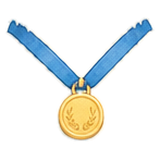
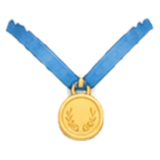
수영복·메달·수경·수모를 동시에 장착: 보드 그림에서 아이템 조각을 오려 겹쳐 입힘, 남/여 수영복 추가
- 정면 곰: 기본 곰 위에 수영복(남 숏사각/여 원피스)·메달·수모·수경 조각을 겹쳐 표시, 모두 동시 착용
- 하단 메뉴바 헤엄 곰: 입은 것과 가장 비슷한 보드 그림 선택 (수영복 보드에는 수모·수경 포함)
- 첫 도장(수영 준비물 사기)에서 남/여 수영복 지급, 아이템 아이콘도 보드 그림에서 오려냄
- 한 번에 한 가지만 입던 제한과 임시 이모지 제거

Claude-Session: https://claude.ai/code/session_01FoDKzQPxUVor71CCwyDNFk

diff --git a/src/components/bear/BearSprite.tsx b/src/components/bear/BearSprite.tsx
@@ -3,56 +3,100 @@ import { Animated, Easing, Image, Pressable, View } from 'react-native';
 import type { Equipped } from '../../storage/bear';
 
 // 둥실곰: 캐릭터 보드(assets/bear)의 그림을 그대로 쓴다. 덧그린 것은 없다.
-// - 입은 것에 따라 보드 그림이 통째로 바뀐다: 기본 / 수모 / 메달. 새 아이템 보드가 오면 여기에 한 줄씩 추가한다.
-// - 서 있는 모습(정면)과, 헤엄치는 모습(자유형·접영·평영·배영을 번갈아)을 쓴다.
+// - 서 있는 모습(정면): 기본 곰 위에, 입은 아이템(수영복·메달·수모·수경)을 보드 그림에서 오려낸 조각으로 겹쳐서 보여준다.
+//   조각은 모두 같은 크기의 캔버스라서 겹쳐 놓기만 하면 맞고, 여러 개를 동시에 입을 수 있다.
+// - 헤엄치는 모습(자유형·접영·평영·배영): 보드가 한 장씩이라, 입은 것과 가장 비슷한 보드 그림을 고른다.
 
 export type BearMode = 'idle' | 'swim';
 
-type Variant = 'base' | 'cap' | 'medal';
 type SwimPose = 'free' | 'fly' | 'breast' | 'back';
+type SwimVariant = 'base' | 'cap' | 'medal' | 'onepiece' | 'trunks';
 const SWIM_POSES: SwimPose[] = ['free', 'fly', 'breast', 'back'];
 
-// 포즈마다 모든 변형이 같은 크기의 캔버스에 놓여 있어서, 옷을 바꿔 입어도 곰 위치가 그대로다.
-const FRONT = { w: 262, h: 475 };
+const FRONT = { w: 290, h: 509 };
 const SWIM_SIZE: Record<SwimPose, { w: number; h: number }> = {
-  free: { w: 407, h: 204 },
-  fly: { w: 367, h: 191 },
-  breast: { w: 303, h: 200 },
-  back: { w: 392, h: 179 },
+  free: { w: 411, h: 220 },
+  fly: { w: 374, h: 207 },
+  breast: { w: 310, h: 205 },
+  back: { w: 392, h: 189 },
 };
-const SWIM_BOX = { w: 407, h: 204 };
+const SWIM_BOX = { w: 411, h: 220 };
 const SWIM_HOLD_MS = 4200;
 const SWIM_FADE_MS = 600;
 
-const FRONT_IMG: Record<Variant, number> = {
-  base: require('../../../assets/bear/base-front.png'),
-  cap: require('../../../assets/bear/cap-front.png'),
-  medal: require('../../../assets/bear/medal-front.png'),
+const FRONT_BASE = require('../../../assets/bear/front-base.png');
+const FRONT_LAYER = {
+  onepiece: require('../../../assets/bear/front-onepiece.png'),
+  trunks: require('../../../assets/bear/front-trunks.png'),
+  medal: require('../../../assets/bear/front-medal.png'),
+  cap: require('../../../assets/bear/front-cap.png'),
+  goggles: require('../../../assets/bear/front-goggles.png'),
 };
-const SWIM_IMG: Record<Variant, Record<SwimPose, number>> = {
+const SWIM_IMG: Record<SwimVariant, Record<SwimPose, number>> = {
   base: {
-    free: require('../../../assets/bear/base-free.png'),
-    fly: require('../../../assets/bear/base-fly.png'),
-    breast: require('../../../assets/bear/base-breast.png'),
-    back: require('../../../assets/bear/base-back.png'),
+    free: require('../../../assets/bear/swim-base-free.png'),
+    fly: require('../../../assets/bear/swim-base-fly.png'),
+    breast: require('../../../assets/bear/swim-base-breast.png'),
+    back: require('../../../assets/bear/swim-base-back.png'),
   },
   cap: {
-    free: require('../../../assets/bear/cap-free.png'),
-    fly: require('../../../assets/bear/cap-fly.png'),
-    breast: require('../../../assets/bear/cap-breast.png'),
-    back: require('../../../assets/bear/cap-back.png'),
+    free: require('../../../assets/bear/swim-cap-free.png'),
+    fly: require('../../../assets/bear/swim-cap-fly.png'),
+    breast: require('../../../assets/bear/swim-cap-breast.png'),
+    back: require('../../../assets/bear/swim-cap-back.png'),
   },
   medal: {
-    free: require('../../../assets/bear/medal-free.png'),
-    fly: require('../../../assets/bear/medal-fly.png'),
-    breast: require('../../../assets/bear/medal-breast.png'),
-    back: require('../../../assets/bear/medal-back.png'),
+    free: require('../../../assets/bear/swim-medal-free.png'),
+    fly: require('../../../assets/bear/swim-medal-fly.png'),
+    breast: require('../../../assets/bear/swim-medal-breast.png'),
+    back: require('../../../assets/bear/swim-medal-back.png'),
+  },
+  onepiece: {
+    free: require('../../../assets/bear/swim-onepiece-free.png'),
+    fly: require('../../../assets/bear/swim-onepiece-fly.png'),
+    breast: require('../../../assets/bear/swim-onepiece-breast.png'),
+    back: require('../../../assets/bear/swim-onepiece-back.png'),
+  },
+  trunks: {
+    free: require('../../../assets/bear/swim-trunks-free.png'),
+    fly: require('../../../assets/bear/swim-trunks-fly.png'),
+    breast: require('../../../assets/bear/swim-trunks-breast.png'),
+    back: require('../../../assets/bear/swim-trunks-back.png'),
   },
 };
+// 각 헤엄 보드 그림에 그려져 있는 것들. (수영복 보드에는 수모와 수경도 같이 그려져 있다.)
+const SWIM_SHOWS: Record<SwimVariant, string[]> = {
+  base: [],
+  cap: ['cap'],
+  medal: ['medal'],
+  onepiece: ['suit', 'cap', 'goggles'],
+  trunks: ['suit', 'cap', 'goggles'],
+};
 
-// 보드 그림이 있는 아이템만 보인다. 보드 한 장에 한 가지 아이템만 입고 있어서 한 번에 한 가지만 입는다.
-function variantOf(e: Equipped): Variant {
-  return e.cap ? 'cap' : e.medal ? 'medal' : 'base';
+/** 입은 것(수영복·수경·수모·메달)과 가장 비슷하게 그려진 헤엄 보드를 고른다. */
+function swimVariantOf(e: Equipped): SwimVariant {
+  const want = new Set<string>();
+  if (e.suit) want.add('suit');
+  if (e.goggles) want.add('goggles');
+  if (e.cap) want.add('cap');
+  if (e.medal) want.add('medal');
+  let best: SwimVariant = 'base';
+  let bestScore = -Infinity;
+  for (const v of Object.keys(SWIM_SHOWS) as SwimVariant[]) {
+    // 수영복은 입은 종류와 같은 보드를 우선한다.
+    if ((v === 'onepiece' || v === 'trunks') && e.suit && v !== e.suit) continue;
+    const shown = SWIM_SHOWS[v];
+    // 수영복이 가장 눈에 띄어서 비중을 크게 둔다.
+    const weight = (x: string) => (x === 'suit' ? 2 : 1);
+    const hit = shown.filter((x) => want.has(x)).reduce((n, x) => n + weight(x), 0);
+    const extra = shown.filter((x) => !want.has(x)).length;
+    const score = hit - extra * 0.5;
+    if (score > bestScore) {
+      bestScore = score;
+      best = v;
+    }
+  }
+  return best;
 }
 
 /** 곰이 차지하는 상자 크기. 헤엄치는 모습은 가로로 길다. */
@@ -79,7 +123,7 @@ interface Props {
 
 function SwimBear({ height, equipped, paused }: { height: number; equipped: Equipped; paused?: boolean }) {
   const box = bearBox('swim', height);
-  const v = variantOf(equipped);
+  const v = swimVariantOf(equipped);
   const set = SWIM_IMG[v];
   const fades = useRef(SWIM_POSES.map((_, i) => new Animated.Value(i === 0 ? 1 : 0))).current;
   const current = useRef(0);
@@ -193,7 +237,11 @@ function StandingBear({ height, equipped, interactive, paused, onPress }: Omit<P
   const body = (
     <View style={{ width: box.width, height: box.height }} pointerEvents="none">
       <Animated.View style={[stageStyle, { transform }]}>
-        <Image source={FRONT_IMG[variantOf(equipped)]} style={layer} />
+        <Image source={FRONT_BASE} style={layer} />
+        {equipped.suit ? <Image source={FRONT_LAYER[equipped.suit]} style={layer} /> : null}
+        {equipped.medal ? <Image source={FRONT_LAYER.medal} style={layer} /> : null}
+        {equipped.cap ? <Image source={FRONT_LAYER.cap} style={layer} /> : null}
+        {equipped.goggles ? <Image source={FRONT_LAYER.goggles} style={layer} /> : null}
       </Animated.View>
     </View>
   );

diff --git a/src/screens/BearCustomizeScreen.tsx b/src/screens/BearCustomizeScreen.tsx
@@ -4,7 +4,7 @@ import { LinearGradient } from 'expo-linear-gradient';
 import ScreenBackground from '../components/ScreenBackground';
 import BearSprite from '../components/bear/BearSprite';
 import { ITEMS, ItemId, LEVEL_NAMES } from '../data/missions';
-import { hasItemArt, ITEM_EMOJI, ITEM_IMAGES } from '../data/itemImages';
+import { ITEM_IMAGES } from '../data/itemImages';
 import { levelOf, setEquipped, useBearState } from '../storage/bear';
 import type { Equipped } from '../storage/bear';
 import { colors, fonts, radius, spacing } from '../theme';
@@ -43,7 +43,7 @@ export default function BearCustomizeScreen() {
       <ScrollView contentContainerStyle={styles.content}>
         <LinearGradient colors={['#8EDAF0', '#3FB1DE']} style={styles.stage}>
           <BearSprite mode="idle" height={280} equipped={bear.equipped} interactive />
-          <Text style={styles.stageHint}>곰을 눌러보세요! 한 번에 한 가지를 입어요</Text>
+          <Text style={styles.stageHint}>곰을 눌러보세요! 모두 함께 입을 수 있어요</Text>
         </LinearGradient>
 
         <Text style={styles.levelText}>
@@ -65,29 +65,24 @@ export default function BearCustomizeScreen() {
               <View style={styles.tiles}>
                 {slot.items.map((id) => {
                   const owned = bear.owned.includes(id);
-                  const art = hasItemArt(id);
                   const on = current === id;
                   return (
                     <Pressable
                       key={id}
-                      disabled={!owned || !art}
+                      disabled={!owned}
                       onPress={() => setEquipped(slot.patch(on ? null : id))}
                       style={[styles.tile, on && styles.tileOn, !owned && styles.tileLocked]}
                       accessibilityRole="button"
                       accessibilityLabel={`${ITEMS[id].name}${owned ? '' : ' (미션 보상)'}`}
                     >
                       <View style={styles.thumb}>
-                        {art ? (
-                          <Image source={ITEM_IMAGES[id]} style={[styles.thumbImg, !owned && { opacity: 0.25 }]} resizeMode="contain" />
-                        ) : (
-                          <Text style={[styles.emoji, !owned && { opacity: 0.25 }]}>{ITEM_EMOJI[id]}</Text>
-                        )}
+                        <Image source={ITEM_IMAGES[id]} style={[styles.thumbImg, !owned && { opacity: 0.25 }]} resizeMode="contain" />
                         {!owned && <Text style={styles.lock}>🔒</Text>}
                       </View>
                       <Text style={styles.tileName} numberOfLines={2}>
                         {ITEMS[id].name}
                       </Text>
-                      <Text style={[styles.tileState, on && styles.tileStateOn]}>{!owned ? '미션 보상' : !art ? '그림 준비 중' : on ? '입는 중' : '입기'}</Text>
+                      <Text style={[styles.tileState, on && styles.tileStateOn]}>{!owned ? '미션 보상' : on ? '입는 중' : '입기'}</Text>
                     </Pressable>
                   );
                 })}
@@ -115,7 +110,6 @@ const styles = StyleSheet.create({
   tileLocked: { opacity: 0.9 },
   thumb: { width: 84, height: 84, borderRadius: 42, backgroundColor: '#CFEBF6', alignItems: 'center', justifyContent: 'center' },
   thumbImg: { width: 64, height: 64 },
-  emoji: { fontSize: 38 },
   lock: { position: 'absolute', fontSize: 22 },
   tileName: { fontFamily: fonts.semibold, color: colors.text, fontSize: 12, marginTop: 6, textAlign: 'center' },
   tileState: { fontFamily: fonts.medium, color: colors.textMuted, fontSize: 11, marginTop: 2 },

diff --git a/src/components/MissionCard.tsx b/src/components/MissionCard.tsx
@@ -2,7 +2,7 @@ import React, { useEffect, useRef, useState } from 'react';
 import { Animated, Easing, Image, Modal, Pressable, ScrollView, StyleSheet, Text, TouchableOpacity, View } from 'react-native';
 import BearStamp from './BearStamp';
 import { BUY_GEAR_LIST, ETIQUETTE_LIST, ITEMS, LEVEL_NAMES, MissionDef, TIERS } from '../data/missions';
-import { hasItemArt, ITEM_EMOJI, ITEM_IMAGES } from '../data/itemImages';
+import { ITEM_IMAGES } from '../data/itemImages';
 import { completeMission, currentTier, levelOf, setEquipped, syncAutoMissions, useBearState } from '../storage/bear';
 import type { CompleteResult } from '../storage/bear';
 import { colors, fonts, radius, spacing } from '../theme';
@@ -182,11 +182,7 @@ export default function MissionCard({ recordCount, onAddRecord, onOpenCustomize 
                   {reward.gained.map((id) => (
                     <View key={id} style={styles.rewardItem}>
                       <View style={styles.rewardThumb}>
-                        {ITEM_IMAGES[id] != null ? (
-                          <Image source={ITEM_IMAGES[id]} style={styles.rewardImg} resizeMode="contain" />
-                        ) : (
-                          <Text style={styles.rewardEmoji}>{ITEM_EMOJI[id]}</Text>
-                        )}
+                        <Image source={ITEM_IMAGES[id]} style={styles.rewardImg} resizeMode="contain" />
                       </View>
                       <Text style={styles.rewardName}>{ITEMS[id].name}</Text>
                     </View>
@@ -196,18 +192,18 @@ export default function MissionCard({ recordCount, onAddRecord, onOpenCustomize 
                   <TouchableOpacity style={styles.secondaryBtn} onPress={() => setReward(null)}>
                     <Text style={styles.secondaryBtnText}>확인</Text>
                   </TouchableOpacity>
-                  {reward.gained.some(hasItemArt) && (
+                  {reward.gained.length > 0 && (
                     <TouchableOpacity
                       style={styles.primaryBtn}
                       onPress={async () => {
                         // 받은 아이템 중 바로 입을 수 있는 것을 입혀준다(수영복은 팬티가 기본).
                         const patch: Record<string, unknown> = {};
                         for (const id of reward.gained) {
-                          // 수영복·수경은 아직 그림이 없어서 입히지 않는다. 한 가지만 입을 수 있다.
-                          if (id === 'cap' || id === 'medal') {
-                            patch[id] = true;
-                            break;
-                          }
+                          if (id === 'trunks' && !patch.suit) patch.suit = 'trunks';
+                          else if (id === 'onepiece' && !patch.suit) patch.suit = 'onepiece';
+                          else if (id === 'goggles') patch.goggles = true;
+                          else if (id === 'cap') patch.cap = true;
+                          else if (id === 'medal') patch.medal = true;
                         }
                         await setEquipped(patch);
                         setReward(null);
@@ -361,6 +357,5 @@ const styles = StyleSheet.create({
   rewardItem: { alignItems: 'center', width: 96 },
   rewardThumb: { width: 84, height: 84, borderRadius: 42, backgroundColor: colors.cardSoft, alignItems: 'center', justifyContent: 'center' },
   rewardImg: { width: 64, height: 64 },
-  rewardEmoji: { fontSize: 40 },
   rewardName: { fontFamily: fonts.semibold, color: colors.text, fontSize: 12, marginTop: 6, textAlign: 'center' },
 });

diff --git a/src/data/itemImages.ts b/src/data/itemImages.ts
@@ -1,21 +1,10 @@
 import type { ItemId } from './missions';
 
-// 캐릭터 보드 그림이 있는 아이템만 곰 위에 보인다. 나머지(수영복·수경)는 보드가 오면 추가한다.
-export const ITEM_IMAGES: Partial<Record<ItemId, number>> = {
+// 아이템 아이콘: 캐릭터 보드 그림에서 아이템 부분만 오려낸 것.
+export const ITEM_IMAGES: Record<ItemId, number> = {
+  trunks: require('../../assets/items/trunks.png'),
+  onepiece: require('../../assets/items/onepiece.png'),
+  goggles: require('../../assets/items/goggles.png'),
   cap: require('../../assets/items/cap.png'),
   medal: require('../../assets/items/medal.png'),
 };
-
-/** 그림이 아직 없는 아이템의 임시 아이콘. */
-export const ITEM_EMOJI: Record<ItemId, string> = {
-  trunks: '🩳',
-  onepiece: '👙',
-  goggles: '🥽',
-  cap: '🧢',
-  medal: '🏅',
-};
-
-/** 곰에게 입혀서 보이는 그림이 있는지. */
-export function hasItemArt(id: ItemId): boolean {
-  return ITEM_IMAGES[id] != null;
-}

diff --git a/src/storage/bear.ts b/src/storage/bear.ts
@@ -74,17 +74,7 @@ export async function syncAutoMissions(recordCount: number): Promise<CompleteRes
 
 export async function setEquipped(patch: Partial<Equipped>): Promise<void> {
   const state = await getBearState();
-  let equipped = { ...state.equipped, ...patch };
-  // 아이템 그림은 한 가지씩만 입은 보드 그림이라, 새로 입히면 입고 있던 것은 벗는다.
-  const turnedOn = patch.suit ? 'suit' : patch.goggles ? 'goggles' : patch.cap ? 'cap' : patch.medal ? 'medal' : null;
-  if (turnedOn) {
-    equipped = {
-      suit: turnedOn === 'suit' ? equipped.suit : null,
-      goggles: turnedOn === 'goggles',
-      cap: turnedOn === 'cap',
-      medal: turnedOn === 'medal',
-    };
-  }
+  const equipped = { ...state.equipped, ...patch };
   // 가지고 있지 않은 아이템은 입을 수 없다.
   if (equipped.suit && !state.owned.includes(equipped.suit)) equipped.suit = null;
   if (equipped.goggles && !state.owned.includes('goggles')) equipped.goggles = false;
